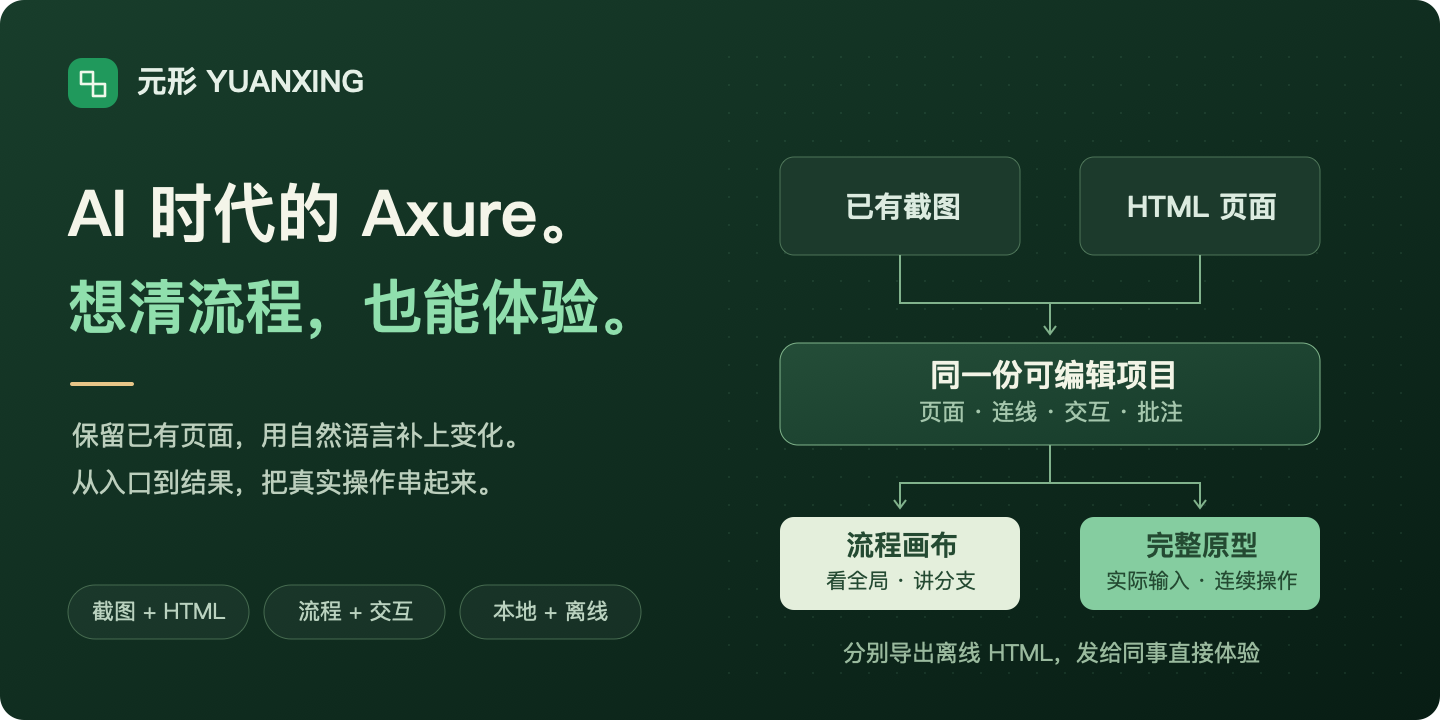
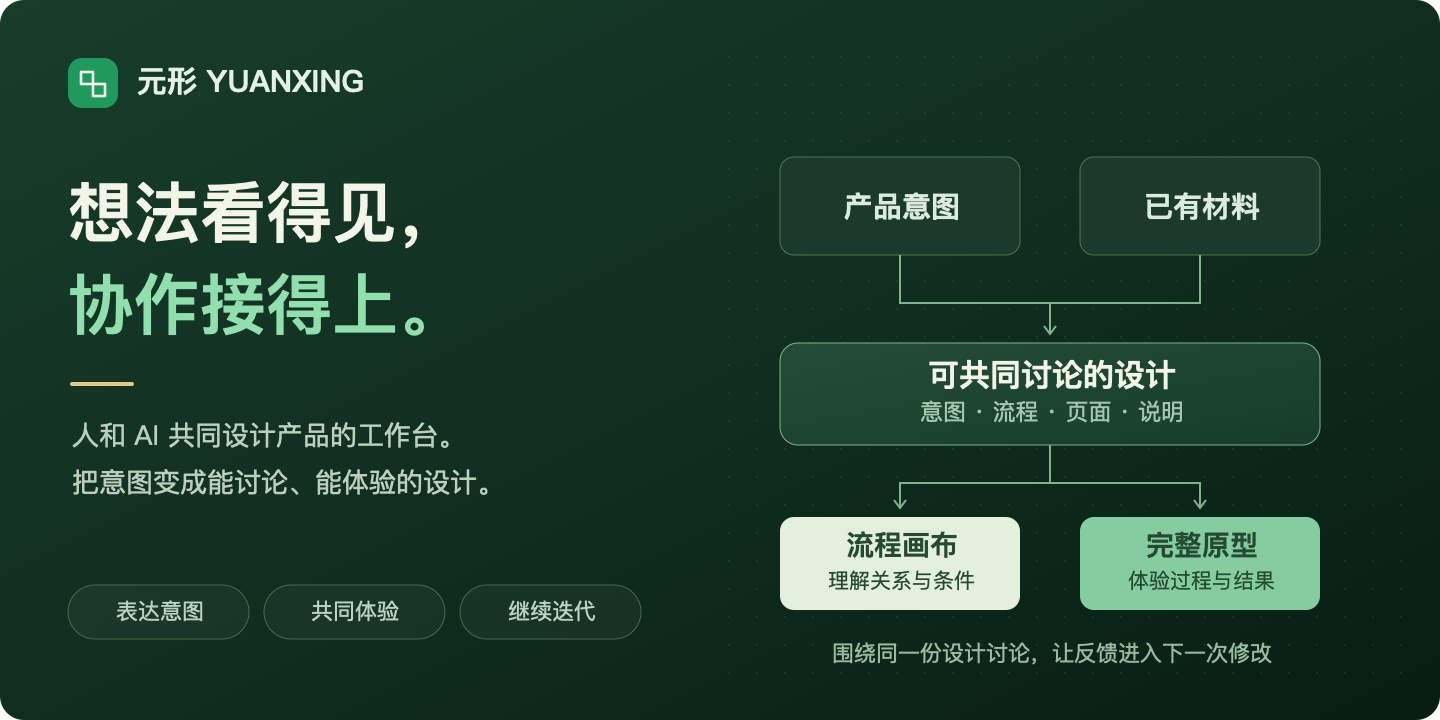
docs: position Yuanxing as a shared design workspace for people and AI

diff --git a/index.html b/index.html
@@ -3,17 +3,17 @@
 <head>
   <meta charset="UTF-8">
   <meta name="viewport" content="width=device-width, initial-scale=1">
-  <meta name="description" content="元形，AI 时代的 Axure。复用旧产品截图和 HTML，用自然语言设计本次改动，在流程画布与完整原型间切换，导出单文件交给同事体验。免费开源。">
+  <meta name="description" content="元形，人和 AI 共同设计产品的工作台。把产品想法变成团队能讨论、能体验、能继续修改的共同设计。复用截图与 HTML，在流程画布和完整原型中理解、体验和交流。">
   <meta property="og:type" content="website">
   <meta property="og:locale" content="zh_CN">
-  <meta property="og:title" content="元形 · 旧产品只改一个功能，原型不用从头做">
-  <meta property="og:description" content="复用截图与 HTML，用自然语言补上新交互。流程评审、完整原型，一份设计。">
+  <meta property="og:title" content="元形 · 人和 AI 共同设计产品的工作台">
+  <meta property="og:description" content="让产品意图成为能讨论、能体验的共同设计，让团队与 AI 围绕同一份设计继续推进。">
   <meta property="og:url" content="https://jasperlin2333.github.io/yuanxing/">
   <link rel="canonical" href="https://jasperlin2333.github.io/yuanxing/">
   <link rel="icon" href="assets/mark.svg" type="image/svg+xml">
   <link rel="stylesheet" href="assets/site.css">
   <script src="assets/site.js" defer></script>
-  <title>元形 Yuanxing · AI 时代的 Axure</title>
+  <title>元形 Yuanxing · 人和 AI 共同设计产品</title>
 </head>
 <body>
   <a class="skip-link" href="#main">跳到正文</a>
@@ -23,15 +23,15 @@
   </header>
   <main id="main">
     <section class="hero wrap">
-      <p class="eyebrow"><span></span>AI 时代的 Axure · 面向产品经理</p>
-      <h1>旧产品只改一个功能，<br>原型不用从头做。</h1>
-      <p class="hero-description">保留已有截图和 HTML，用自然语言补上这次变化。<br class="desktop-break">把入口、操作和结果连起来，随时切换流程画布与完整原型。</p>
+      <p class="eyebrow"><span></span>人和 AI 共同设计产品的工作台</p>
+      <h1>把产品想法，<br>变成共同理解的设计。</h1>
+      <p class="hero-description">用原型、流程和说明，把意图表达清楚。<br class="desktop-break">让团队能讨论、能体验，让 AI 根据明确反馈继续修改。</p>
       <div class="actions"><a class="button primary" href="demo/prototype.html">先体验完整原型 <span aria-hidden="true">→</span></a><a class="button secondary" href="#install">安装元形 Skill</a></div>
       <p class="hero-note">在线示例直接打开 · 本地项目可编辑 · MIT 开源</p>
-      <figure class="workflow"><img src="assets/readme-flow.svg" width="1280" height="640" alt="工作方式示意：保留旧客户列表截图，连接新增的分配表单、完成页和权限分支；同一份设计可用于流程评审与独立体验。"><figcaption>工作方式示意 · 不变的界面继续复用，需要操作的部分再生成。</figcaption></figure>
+      <figure class="workflow"><img src="assets/readme-flow.svg" width="1280" height="640" alt="工作方式示意：保留旧客户列表截图，连接新增的分配表单、完成页和权限分支；同一份设计可用于流程评审与独立体验。"><figcaption>在同一份设计中理解目标、体验流程、讨论改动。</figcaption></figure>
     </section>
     <section class="section wrap" id="example">
-      <div class="section-heading"><p class="eyebrow">从一个具体需求开始</p><h2>给已有客户列表，<br>加上“分配客户”。</h2><p>公开案例包含两条路径。先实际走一遍，再回到画布看整个方案。</p></div>
+      <div class="section-heading"><p class="eyebrow">从一个具体需求开始</p><h2>给已有客户列表，<br>加上“分配客户”。</h2><p>同一句需求，可能有不同理解。走一遍管理员与普通成员的路径，把操作条件和结果一起讨论清楚。</p></div>
       <div class="example-layout">
         <div class="example-path"><span class="path-label">管理员</span><ol><li><span>01</span><div><h3>从旧页面进入</h3><p>点击列表截图中的“分配客户”。旧界面保持原样。</p></div></li><li><span>02</span><div><h3>在新表单中操作</h3><p>选择负责成员，确认分配。新增部分使用 HTML。</p></div></li><li><span>03</span><div><h3>查看结果，返回列表</h3><p>结果页展示刚才选择的成员，完成这一段用户流程。</p></div></li></ol></div>
         <div class="example-side"><div class="branch"><span class="path-label">普通成员</span><h3>同一个入口，另一条分支。</h3><p>在体验页切换为“普通成员访问”，查看权限提示。关键条件也在画布上讲清楚。</p></div><div class="example-links"><a href="demo/prototype.html">操作这个案例 <span aria-hidden="true">↗</span></a><a href="demo/review.html">查看流程画布 <span aria-hidden="true">↗</span></a><a href="https://github.com/JasperLin2333/yuanxing/tree/main/examples/product-iteration">获取可编辑项目 <span aria-hidden="true">↗</span></a></div></div>
@@ -39,15 +39,15 @@
       <p class="section-note">案例界面与数据均为虚构示例。</p>
     </section>
     <section class="section two-views">
-      <div class="wrap"><div class="section-heading"><p class="eyebrow">一份设计，两种视图</p><h2>推演时看全局，<br>评审时让大家试一遍。</h2></div><div class="view-grid"><article><span class="view-number">01 / 流程画布</span><h3>入口、分支、说明，放在一起。</h3><p>整理页面关系，拖动、连线和打点批注。局部修改保留已有的人工整理。</p><a href="demo/review.html">打开评审示例 →</a></article><article><span class="view-number">02 / 完整原型</span><h3>从入口到结果，连续操作。</h3><p>顶栏一键切换，按 Esc 回到画布。也可以导出单个 HTML，发给同事离线体验。</p><a href="demo/prototype.html">打开体验示例 →</a></article></div></div>
+      <div class="wrap"><div class="section-heading"><p class="eyebrow">一份设计，两种视图</p><h2>围绕同一份设计，<br>理解、体验、讨论。</h2></div><div class="view-grid"><article><span class="view-number">01 / 流程画布</span><h3>入口、分支、说明，放在一起。</h3><p>整理页面关系，拖动、连线和打点批注。局部修改保留已有的人工整理。</p><a href="demo/review.html">打开评审示例 →</a></article><article><span class="view-number">02 / 完整原型</span><h3>从入口到结果，连续操作。</h3><p>顶栏一键切换，按 Esc 回到画布。也可以导出单个 HTML，发给同事离线体验。</p><a href="demo/prototype.html">打开体验示例 →</a></article></div></div>
     </section>
     <section class="section wrap" id="install">
       <div class="section-heading"><p class="eyebrow">放进你现有的 AI 工作流</p><h2>把这段话发给 AI，<br>从你的产品开始。</h2><p>需要能读写本地文件、运行命令的 AI 助手，以及 Node.js 20+。</p></div>
-      <div class="install-layout"><div class="prompt-panel"><div class="panel-heading"><span>复制给你的 AI 助手</span><button class="copy-button" type="button" data-copy="install-prompt">复制提示词</button></div><p id="install-prompt">请安装 https://github.com/JasperLin2333/yuanxing 中的元形 Skill。先阅读 SKILL.md，按当前宿主的 Skill 目录规范安装，保留随包运行时与资源。安装后，基于我提供的已有产品界面，只设计这次功能改动，保留其他区域，生成流程画布和可独立体验的原型。</p><div class="command"><div class="panel-heading"><span>已有 skills CLI？也可以在目标项目目录运行</span><button class="copy-button" type="button" data-copy="install-command">复制命令</button></div><code id="install-command">npx skills add JasperLin2333/yuanxing --skill yuanxing</code></div><p class="copy-status" role="status" aria-live="polite"></p></div><div class="install-aside"><h3>安装后，把实际需求说出来。</h3><blockquote>使用元形。基于这张已有客户列表，只设计“分配客户”这次改动。把管理员和普通成员的流程放到画布上，并导出能独立体验的原型。</blockquote><p>元形使用你现有的 AI 助手，本身无需额外配置模型 API Key。</p><a href="https://github.com/JasperLin2333/yuanxing#start">查看完整安装说明 →</a><a href="https://github.com/JasperLin2333/yuanxing/releases/latest">下载离线包 →</a></div></div>
+      <div class="install-layout"><div class="prompt-panel"><div class="panel-heading"><span>复制给你的 AI 助手</span><button class="copy-button" type="button" data-copy="install-prompt">复制提示词</button></div><p id="install-prompt">请安装 https://github.com/JasperLin2333/yuanxing 中的元形 Skill。先阅读 SKILL.md，按当前宿主的 Skill 目录规范安装，保留随包运行时与资源。安装后，基于我提供的需求和已有材料，生成团队可讨论的流程画布和可体验的原型；已有产品只修改本次涉及的部分。</p><div class="command"><div class="panel-heading"><span>已有 skills CLI？也可以在目标项目目录运行</span><button class="copy-button" type="button" data-copy="install-command">复制命令</button></div><code id="install-command">npx skills add JasperLin2333/yuanxing --skill yuanxing</code></div><p class="copy-status" role="status" aria-live="polite"></p></div><div class="install-aside"><h3>安装后，把实际需求说出来。</h3><blockquote>使用元形。基于这张已有客户列表，只设计“分配客户”这次改动。把管理员和普通成员的流程放到画布上，并导出能独立体验的原型。</blockquote><p>元形使用你现有的 AI 助手，本身无需额外配置模型 API Key。</p><a href="https://github.com/JasperLin2333/yuanxing#start">查看完整安装说明 →</a><a href="https://github.com/JasperLin2333/yuanxing/releases/latest">下载离线包 →</a></div></div>
     </section>
     <section class="section wrap faq"><div class="section-heading"><h2>开始前，你可能想知道。</h2></div><details><summary>这是在线生成原型的网站吗？</summary><p>这个网站提供可直接体验的示例。制作自己的原型时，把元形安装到能读写本地文件、运行命令的 AI 助手中，项目保存在你选择的本地目录。</p></details><details><summary>已有截图能和新页面接起来吗？</summary><p>可以。截图设置点击热点，HTML 绑定控件跳转。不变的部分可以一直保留为截图。</p></details><details><summary>同事查看原型也要安装吗？</summary><p>导出的评审工作台和完整原型均为单个 HTML 文件，同事在浏览器打开即可查看，无需安装元形或启动服务。</p></details><details><summary>支持什么输入？</summary><p>当前支持自包含 HTML、本地 CSS、图片、普通 JavaScript，以及 PNG、JPEG、WebP 截图。框架工程、外部 CDN、真实登录和网络接口需要先适配。<a href="https://github.com/JasperLin2333/yuanxing/blob/main/references/project-format.md">查看项目格式</a>。</p></details></section>
-    <section class="closing wrap"><p class="eyebrow">先试一段你熟悉的流程</p><h2>把产品想清楚，<br>也让别人看得懂、试得了。</h2><div class="actions"><a class="button primary" href="demo/prototype.html">体验完整原型 →</a><a class="button secondary" href="https://github.com/JasperLin2333/yuanxing/issues/new?title=%E6%88%91%E7%9A%84%E5%85%83%E5%BD%A2%E4%BD%BF%E7%94%A8%E5%8F%8D%E9%A6%88">告诉我你的使用场景</a></div></section>
+    <section class="closing wrap"><p class="eyebrow">先试一段你熟悉的流程</p><h2>让理解可以共享，<br>让工作持续向前。</h2><div class="actions"><a class="button primary" href="demo/prototype.html">体验完整原型 →</a><a class="button secondary" href="https://github.com/JasperLin2333/yuanxing/issues/new?title=%E6%88%91%E7%9A%84%E5%85%83%E5%BD%A2%E4%BD%BF%E7%94%A8%E5%8F%8D%E9%A6%88">告诉我你的使用场景</a></div></section>
   </main>
-  <footer class="site-footer wrap"><a class="brand" href="./">元形 <small>Yuanxing</small></a><p>用自然语言，完成可评审、可体验的产品流程。</p><a href="https://github.com/JasperLin2333/yuanxing/blob/main/LICENSE">MIT License</a></footer>
+  <footer class="site-footer wrap"><a class="brand" href="./">元形 <small>Yuanxing</small></a><p>人和 AI 共同设计，让想法能讨论、能体验、能继续推进。</p><a href="https://github.com/JasperLin2333/yuanxing/blob/main/LICENSE">MIT License</a></footer>
 </body>
 </html>

diff --git a/README.md b/README.md
@@ -1,33 +1,36 @@
 # 元形 Yuanxing
 
-**AI 时代的 Axure。用自然语言，把想法变成可评审、可体验的产品流程。**
+**人和 AI 共同设计产品的工作台。**
 
-复用已有截图与 HTML，只设计这次变化。把页面、操作和分支连成流程，随时切换画布与完整原型，再导出一个 HTML 文件交给同事。
+把产品想法变成团队能讨论、能体验、能继续修改的共同设计。用原型、流程和说明表达意图，让人和人、人和 AI 围绕同一份设计继续推进。
 
 **[直接体验](https://jasperlin2333.github.io/yuanxing/demo/prototype.html) · [查看画布](https://jasperlin2333.github.io/yuanxing/demo/review.html) · [开始使用](#start) · [产品介绍](https://jasperlin2333.github.io/yuanxing/) · [查看发布](https://github.com/JasperLin2333/yuanxing/releases/latest)**
 
-[![元形：截图与 HTML 组成同一份可编辑项目，在流程画布和完整原型间切换](assets/readme-hero.png)](assets/readme-hero.svg)
+[![元形：人和 AI 围绕同一份设计表达意图、体验流程、讨论反馈并继续修改](assets/readme-hero.png)](assets/readme-hero.svg)
 
-## 只设计这次变化，也能看清整个流程
+## 把脑中的产品想法，变成大家能共同理解的设计
 
-旧系统只增加一个弹窗，原型却得从整页复刻开始；AI 生成了几个漂亮页面，评审时还是要口头解释怎么走；方案讨论完了，同事拿到文件却没法实际体验。
+同一句“增加客户分配功能”，产品、研发、测试和 AI 脑中可能是不同的方案：谁能操作、从哪里进入、结果是什么、哪些条件会改变流程？
 
-元形把这些工作放进同一个原型项目：**不变的页面继续复用，需要变化的部分用 AI 完成，完整的用户路径在画布和原型里表达。**
+元形把意图表达为可查看、可操作的原型与流程。团队可以据此讨论，AI 可以按明确的需求和反馈继续修改；实际走一遍，也会发现原来没想到的条件和分支，为判断与取舍补充信息。
+
+**让理解发生在同一份设计里，让反馈进入下一次修改。** 已有截图与 HTML 可以继续复用，只补这次变化；新产品也可以从空白开始。
 
 | 你要推进的工作 | 元形帮你怎么做 |
 | --- | --- |
-| **在已有产品上加功能** | 保留截图或 HTML，补上这次改动的页面与交互 |
-| **把流程想清楚、讲明白** | 在画布上组织页面、连线、分支和批注，推演入口到结果 |
-| **让评审者实际试一遍** | 切到完整原型，点击、选择、输入，连续走完已经设计的路径 |
-| **发给同事继续讨论** | 导出单个 HTML，离线打开即可查看和体验 |
+| **表达产品意图** | 把需求、截图和已有页面组织成可讨论的设计，让入口、操作和结果具体可见 |
+| **让团队形成共同理解** | 在同一画布上查看页面关系、关键条件与批注，围绕具体流程交流 |
+| **和 AI 一起继续设计** | 用自然语言描述新增或修改，让 AI 更新页面与交互，保留已有设计和人工整理 |
+| **通过体验补充判断** | 点击、选择、输入，走完已设计的路径，发现遗漏与需要进一步讨论的地方 |
+| **把设计传给下一位** | 导出单个 HTML，让同事离线查看、体验并反馈 |
 
-新产品也可以从空白开始。你用自然语言描述意图，AI 负责组织页面与交互；你也可以直接拖动、连线、打点批注，继续打磨同一份设计。
+你也可以直接拖动、连线、打点批注，与 AI 继续打磨同一份设计。
 
 ## 先看全局，再实际操作
 
 ### 流程画布：把入口、分支和结果放在一起
 
-页面关系一眼可见。拖动整理布局、连接操作路径、在页面上打点说明；局部修改保留已有的人工整理。
+把页面关系、条件分支和说明放在一起，帮助团队对齐对流程的理解。拖动整理布局、连接操作路径、在页面上打点说明；局部修改保留已有的人工整理。
 
 [![元形公开示例的真实流程画布：已有客户列表连接到分配表单、完成页和普通成员提示](assets/readme-canvas.png)](https://jasperlin2333.github.io/yuanxing/demo/review.html)
 
@@ -35,7 +38,7 @@
 
 ### 完整原型：从入口到结果，像使用产品一样体验
 
-一键切换视图，直接操作页面中的控件。输入、选择和跳转保留真实交互；按 Esc 回到画布，继续推演和讨论。
+把设计走一遍，检验自己的理解，也给讨论提供具体依据。一键切换视图，直接操作页面中的控件；按 Esc 回到画布，继续推演和讨论。
 
 [![元形公开示例的真实完整原型：从客户列表进入分配表单，实际选择负责成员](assets/readme-prototype.png)](https://jasperlin2333.github.io/yuanxing/demo/prototype.html)
 
@@ -54,7 +57,7 @@
 | **串起操作结果** | 确认后展示所选成员，再返回客户列表 |
 | **讲清关键分支** | 普通成员从同一入口进入，展示对应权限提示 |
 
-不必先准备完整 PRD，也不必一次重画全部页面。先让这次变化表达清楚，再沿着同一份源项目继续迭代。
+不必先准备完整 PRD，也不必一次重画全部页面。先让这次变化表达清楚，在讨论和体验中发现问题，再把已确认的反馈落实到同一份源项目。
 
 ## 一份设计，两种离线交付
 
@@ -81,7 +84,7 @@
 ```text
 请安装 https://github.com/JasperLin2333/yuanxing 中的元形 Skill。
 先阅读 SKILL.md，按当前宿主的 Skill 目录规范安装，保留随包运行时与资源。
-安装后，基于我提供的已有产品界面，只设计这次功能改动，生成流程画布和可独立体验的原型。
+安装后，基于我提供的需求和已有材料，生成团队可讨论的流程画布和可体验的原型；已有产品只修改本次涉及的部分。
 ```
 
 也可以在项目目录中运行，按提示选择 AI 助手：
@@ -164,5 +167,7 @@ node scripts/yuanxing.mjs serve --workspace ./my-workspace.json --open
 **先拿一个你熟悉的功能试试。** [体验完整原型](https://jasperlin2333.github.io/yuanxing/demo/prototype.html)，或在 [Issues](https://github.com/JasperLin2333/yuanxing/issues) 分享你的具体场景和改进建议。
 
 希望参与开发，可查看[贡献与维护说明](CONTRIBUTING.md)。
+
+相关工具：[上下文协作](https://github.com/JasperLin2333/context-continuity) 关注 Agent 之间的任务接续，让当前目标、判断依据与已确认决定被下一位继续使用。
 
 主代码采用 [MIT](LICENSE) 许可证；附带组件的来源与许可见[第三方说明](THIRD_PARTY_NOTICES.md)。
